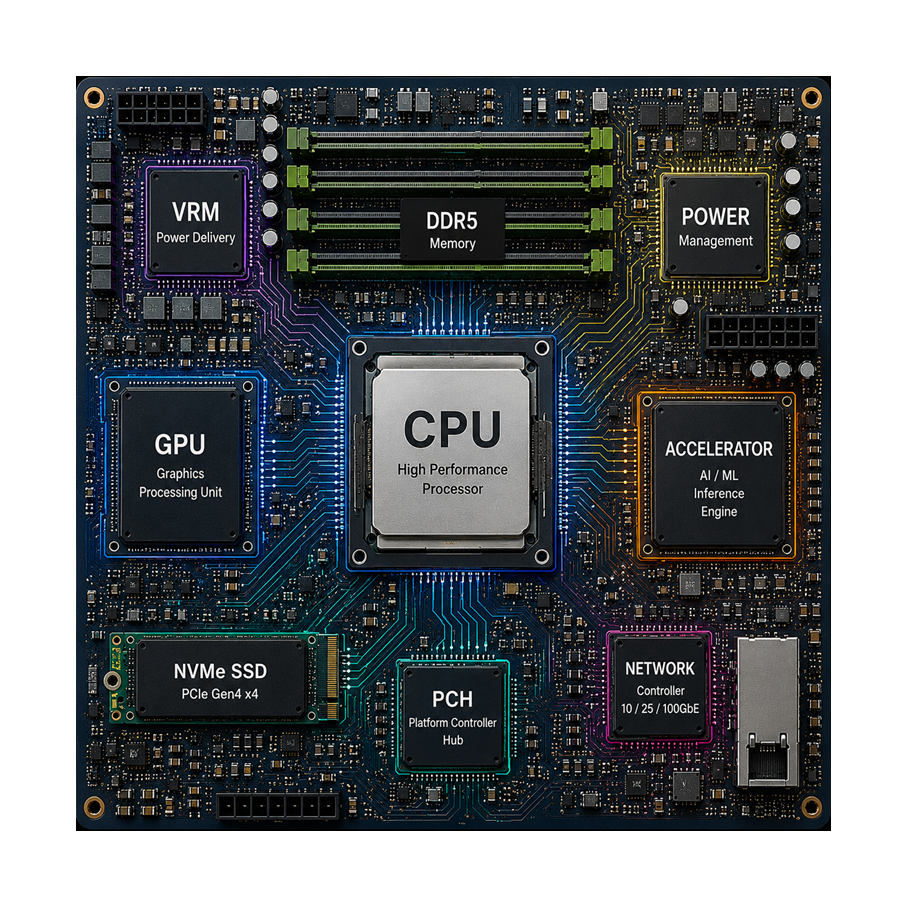
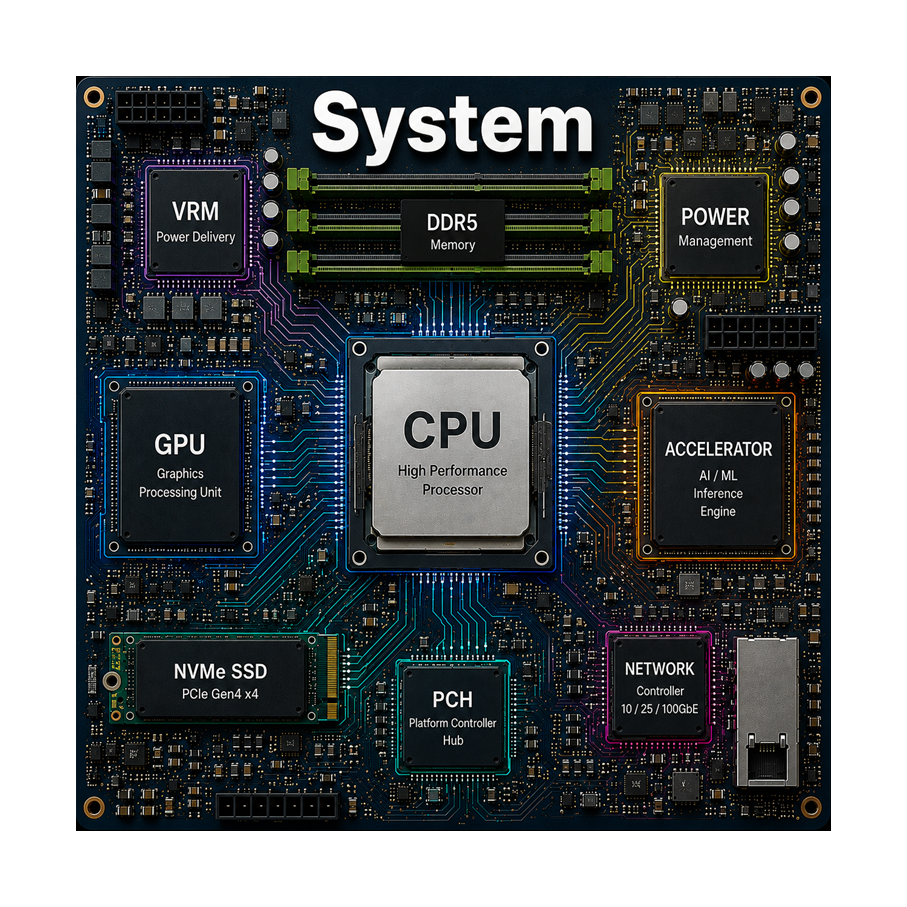
Deploying to gh-pages from @ ipoom-jeong/gaudi-lab@c78e5d9c36523714a11cee6dfb3d4f3c0b0b18ca 🚀

Changed region(s): [[0.0617, 0.0617, 0.9261, 0.8953], [0.2161, 0.7409, 0.2778, 0.7718]]

diff --git a/2019/01/07/example-post-1.html b/2019/01/07/example-post-1.html
@@ -62,10 +62,10 @@
 
   <meta name="author" content="sarah-johnson">
   <meta property="og:type" content="article">
-  <meta property="og:updated_time" content="2026-05-14T15:01:10+00:00">
+  <meta property="og:updated_time" content="2026-05-14T16:12:53+00:00">
   <meta property="article:published_time" content="2019-01-07T00:00:00+00:00">
-  <meta property="article:modified_time" content="2026-05-14T15:01:10+00:00">
-  <meta name="revised" content="2026-05-14T15:01:10+00:00">
+  <meta property="article:modified_time" content="2026-05-14T16:12:53+00:00">
+  <meta name="revised" content="2026-05-14T16:12:53+00:00">
 
 
 <script type="application/ld+json">
@@ -75,7 +75,7 @@
       "@type": "BlogPosting",
       "author": { "@type": "Person", "name": "Example post 1" },
       "datePublished": "2019-01-07T00:00:00+00:00",
-      "dateModified": "2026-05-14T15:01:10+00:00",
+      "dateModified": "2026-05-14T16:12:53+00:00",
     
     "name": "Example post 1",
     "description": "General-Purpose Architectures with Unleashed Design Innovations. description",

diff --git a/2021/09/30/example-post-2.html b/2021/09/30/example-post-2.html
@@ -62,10 +62,10 @@
 
   <meta name="author" content="jane-smith">
   <meta property="og:type" content="article">
-  <meta property="og:updated_time" content="2026-05-14T15:01:10+00:00">
+  <meta property="og:updated_time" content="2026-05-14T16:12:53+00:00">
   <meta property="article:published_time" content="2021-09-30T00:00:00+00:00">
-  <meta property="article:modified_time" content="2026-05-14T15:01:10+00:00">
-  <meta name="revised" content="2026-05-14T15:01:10+00:00">
+  <meta property="article:modified_time" content="2026-05-14T16:12:53+00:00">
+  <meta name="revised" content="2026-05-14T16:12:53+00:00">
 
 
 <script type="application/ld+json">
@@ -75,7 +75,7 @@
       "@type": "BlogPosting",
       "author": { "@type": "Person", "name": "Example post 2" },
       "datePublished": "2021-09-30T00:00:00+00:00",
-      "dateModified": "2026-05-14T15:01:10+00:00",
+      "dateModified": "2026-05-14T16:12:53+00:00",
     
     "name": "Example post 2",
     "description": "General-Purpose Architectures with Unleashed Design Innovations. description",

diff --git a/2023/02/23/example-post-3.html b/2023/02/23/example-post-3.html
@@ -62,10 +62,10 @@
 
   <meta name="author" content="john-doe">
   <meta property="og:type" content="article">
-  <meta property="og:updated_time" content="2026-05-14T15:01:10+00:00">
+  <meta property="og:updated_time" content="2026-05-14T16:12:53+00:00">
   <meta property="article:published_time" content="2023-02-23T00:00:00+00:00">
-  <meta property="article:modified_time" content="2026-05-14T15:01:10+00:00">
-  <meta name="revised" content="2026-05-14T15:01:10+00:00">
+  <meta property="article:modified_time" content="2026-05-14T16:12:53+00:00">
+  <meta name="revised" content="2026-05-14T16:12:53+00:00">
 
 
 <script type="application/ld+json">
@@ -75,7 +75,7 @@
       "@type": "BlogPosting",
       "author": { "@type": "Person", "name": "Example post 3" },
       "datePublished": "2023-02-23T00:00:00+00:00",
-      "dateModified": "2026-05-14T15:01:10+00:00",
+      "dateModified": "2026-05-14T16:12:53+00:00",
     
     "name": "Example post 3",
     "description": "General-Purpose Architectures with Unleashed Design Innovations. description",